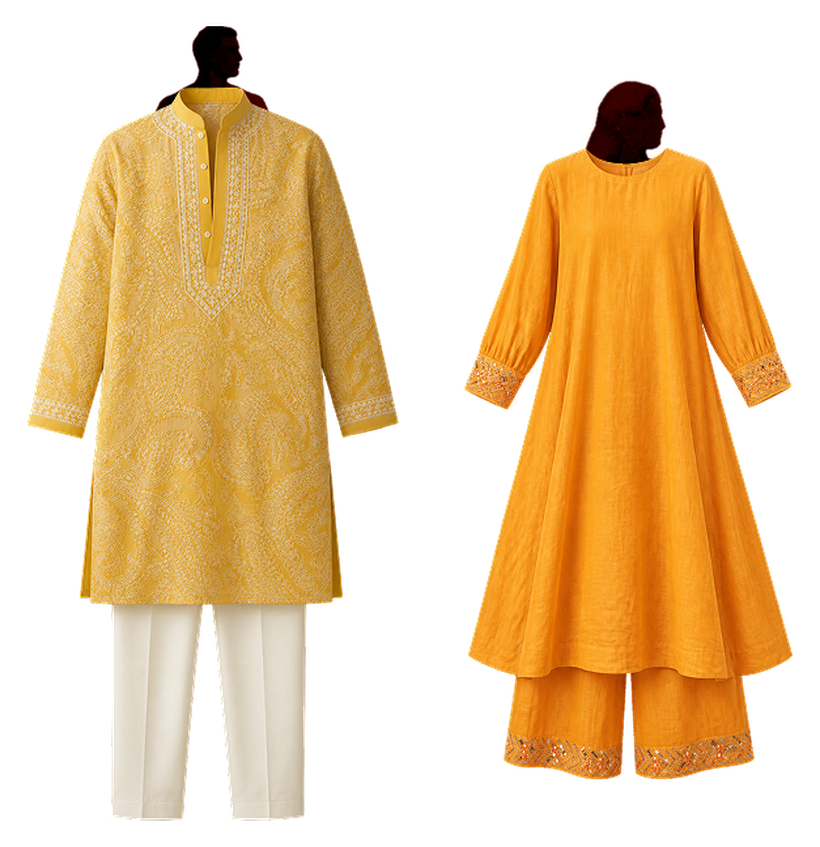
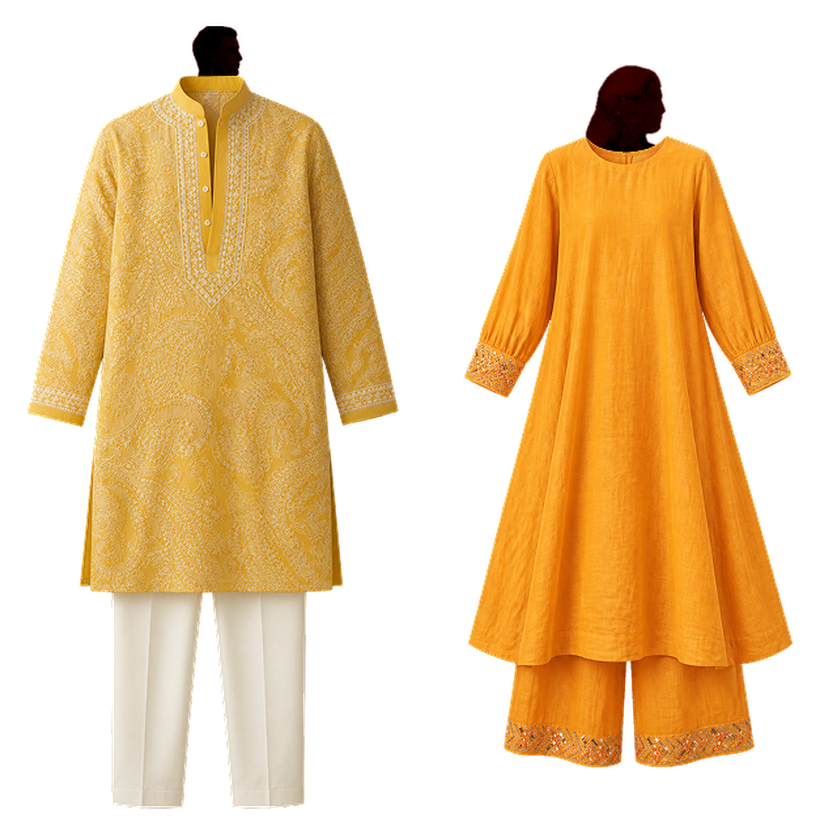
What to Wear: eliminate neck/collar gap; Schedule: drop redundant day-title header
- Head overlap into the collar was a single shared fraction for both
  figures; the two head cutouts have different neck-to-shoulder
  proportions internally, so one gender always showed a visible gap
  above the collar. Split into separate him/her overlap amounts tuned
  against each cutout's own geometry so the garment convincingly
  covers the neck seam on both, across all 12 looks.
- DayDetail: remove the dashed "17th December / Arrival" header block
  from each day panel — redundant now that the navbar carries that
  context.

diff --git a/src/components/DayDetail.tsx b/src/components/DayDetail.tsx
@@ -42,22 +42,6 @@ function NoteBubble({ text }: { text: string }) {
 export default function DayDetail({ day }: { day: Day }) {
   return (
     <div>
-      <div
-        className="flex w-full flex-wrap items-center justify-between gap-y-2 rounded-[3px] border-4 border-dashed py-5 pl-6 pr-4 sm:pl-10 sm:pr-6"
-        style={{
-          background: day.header.fill,
-          borderColor: day.header.border,
-          color: day.header.text,
-        }}
-      >
-        <span className="font-serif text-[24px] italic sm:text-[32px]">
-          {day.date}
-        </span>
-        <span className="font-serif text-[24px] italic sm:text-[32px]">
-          {day.name}
-        </span>
-      </div>
-
       <div className="flex flex-col gap-6 py-8 sm:py-14">
         <Timeline blocks={day.blocks} />
 
